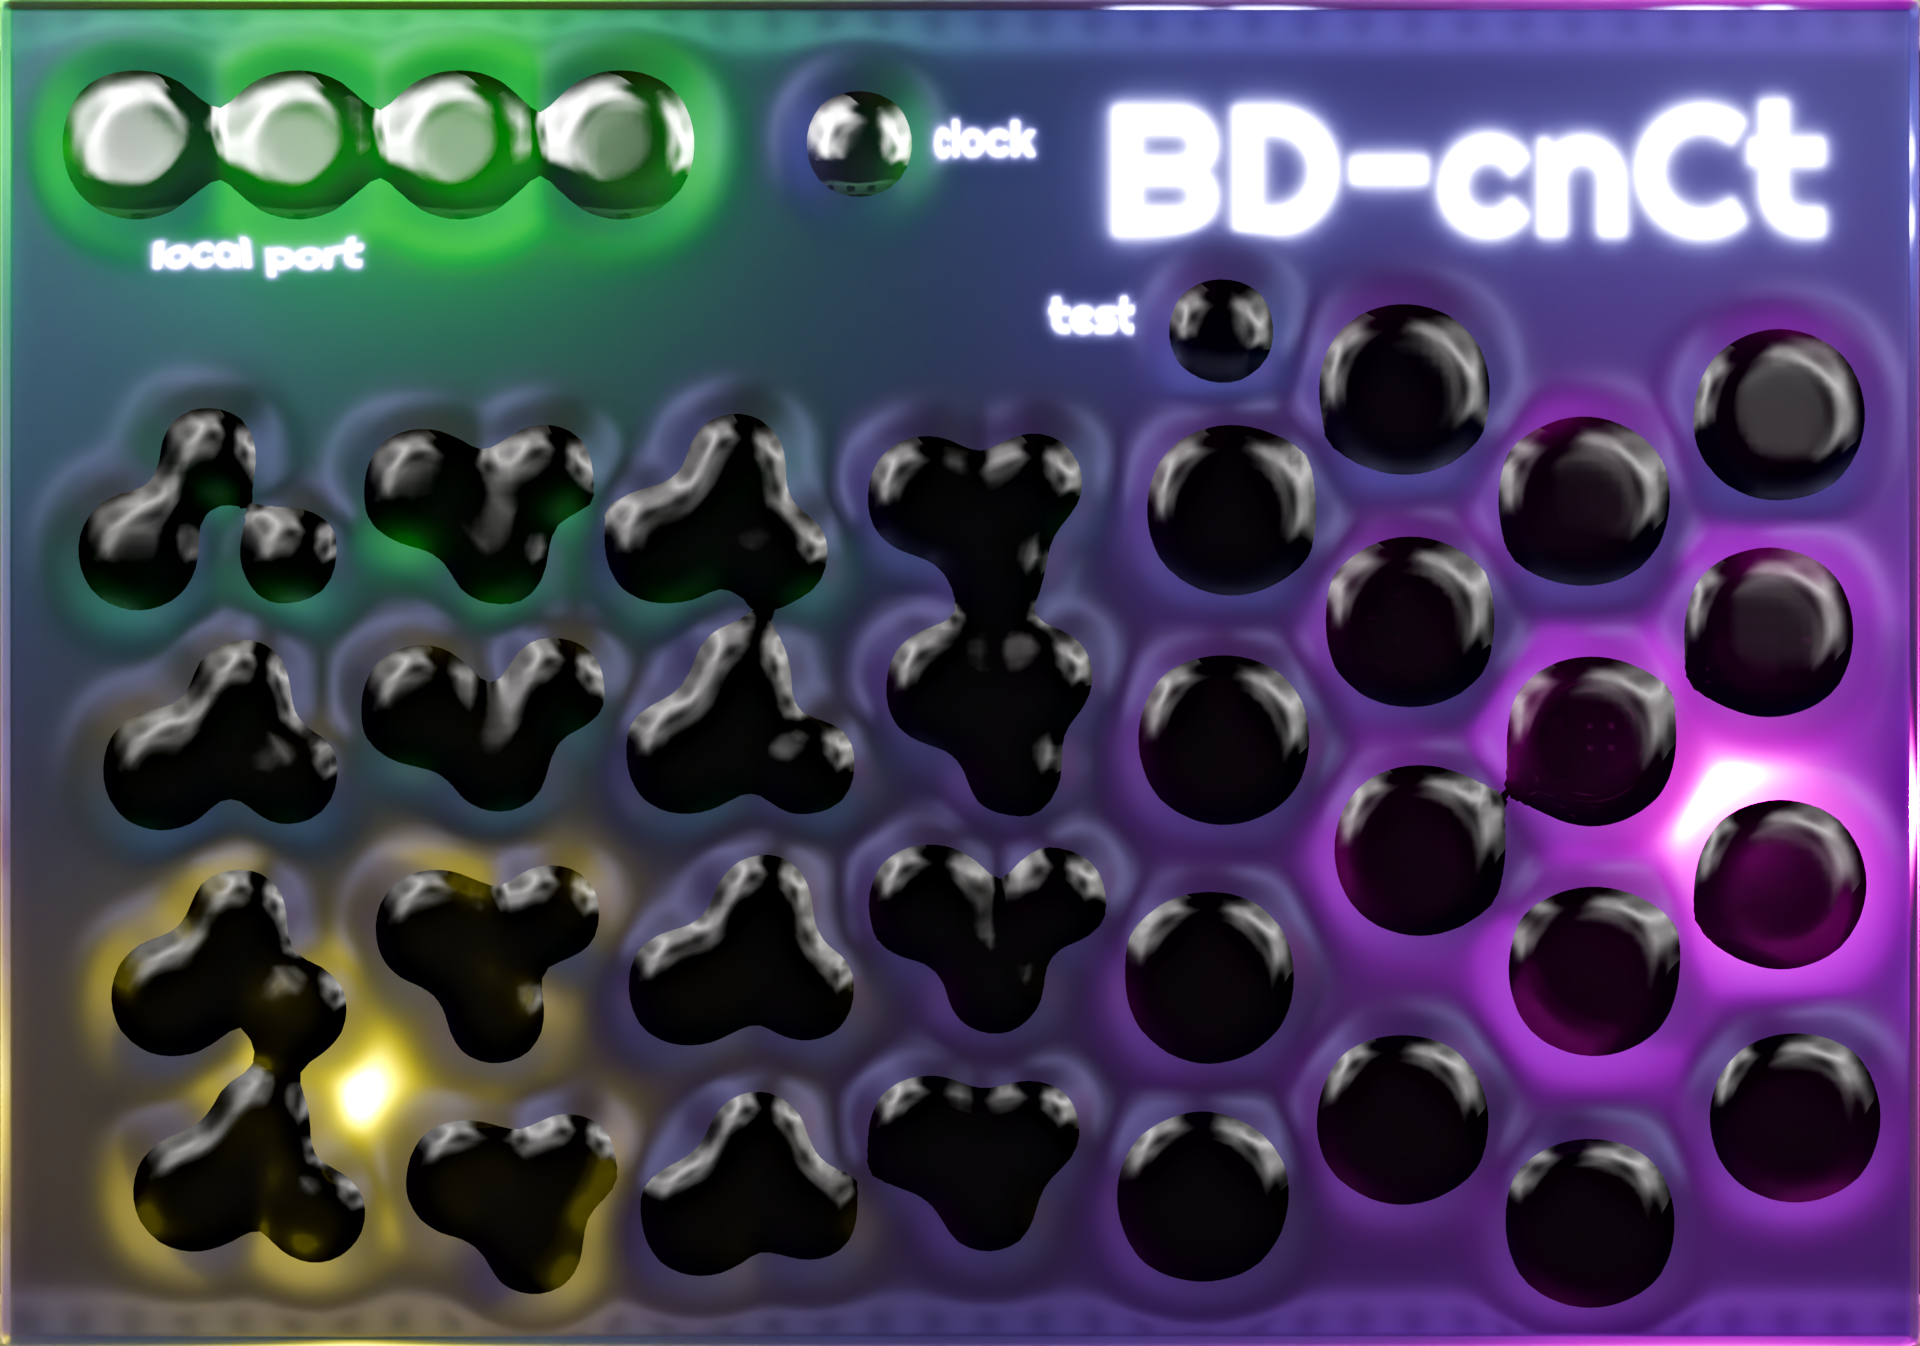
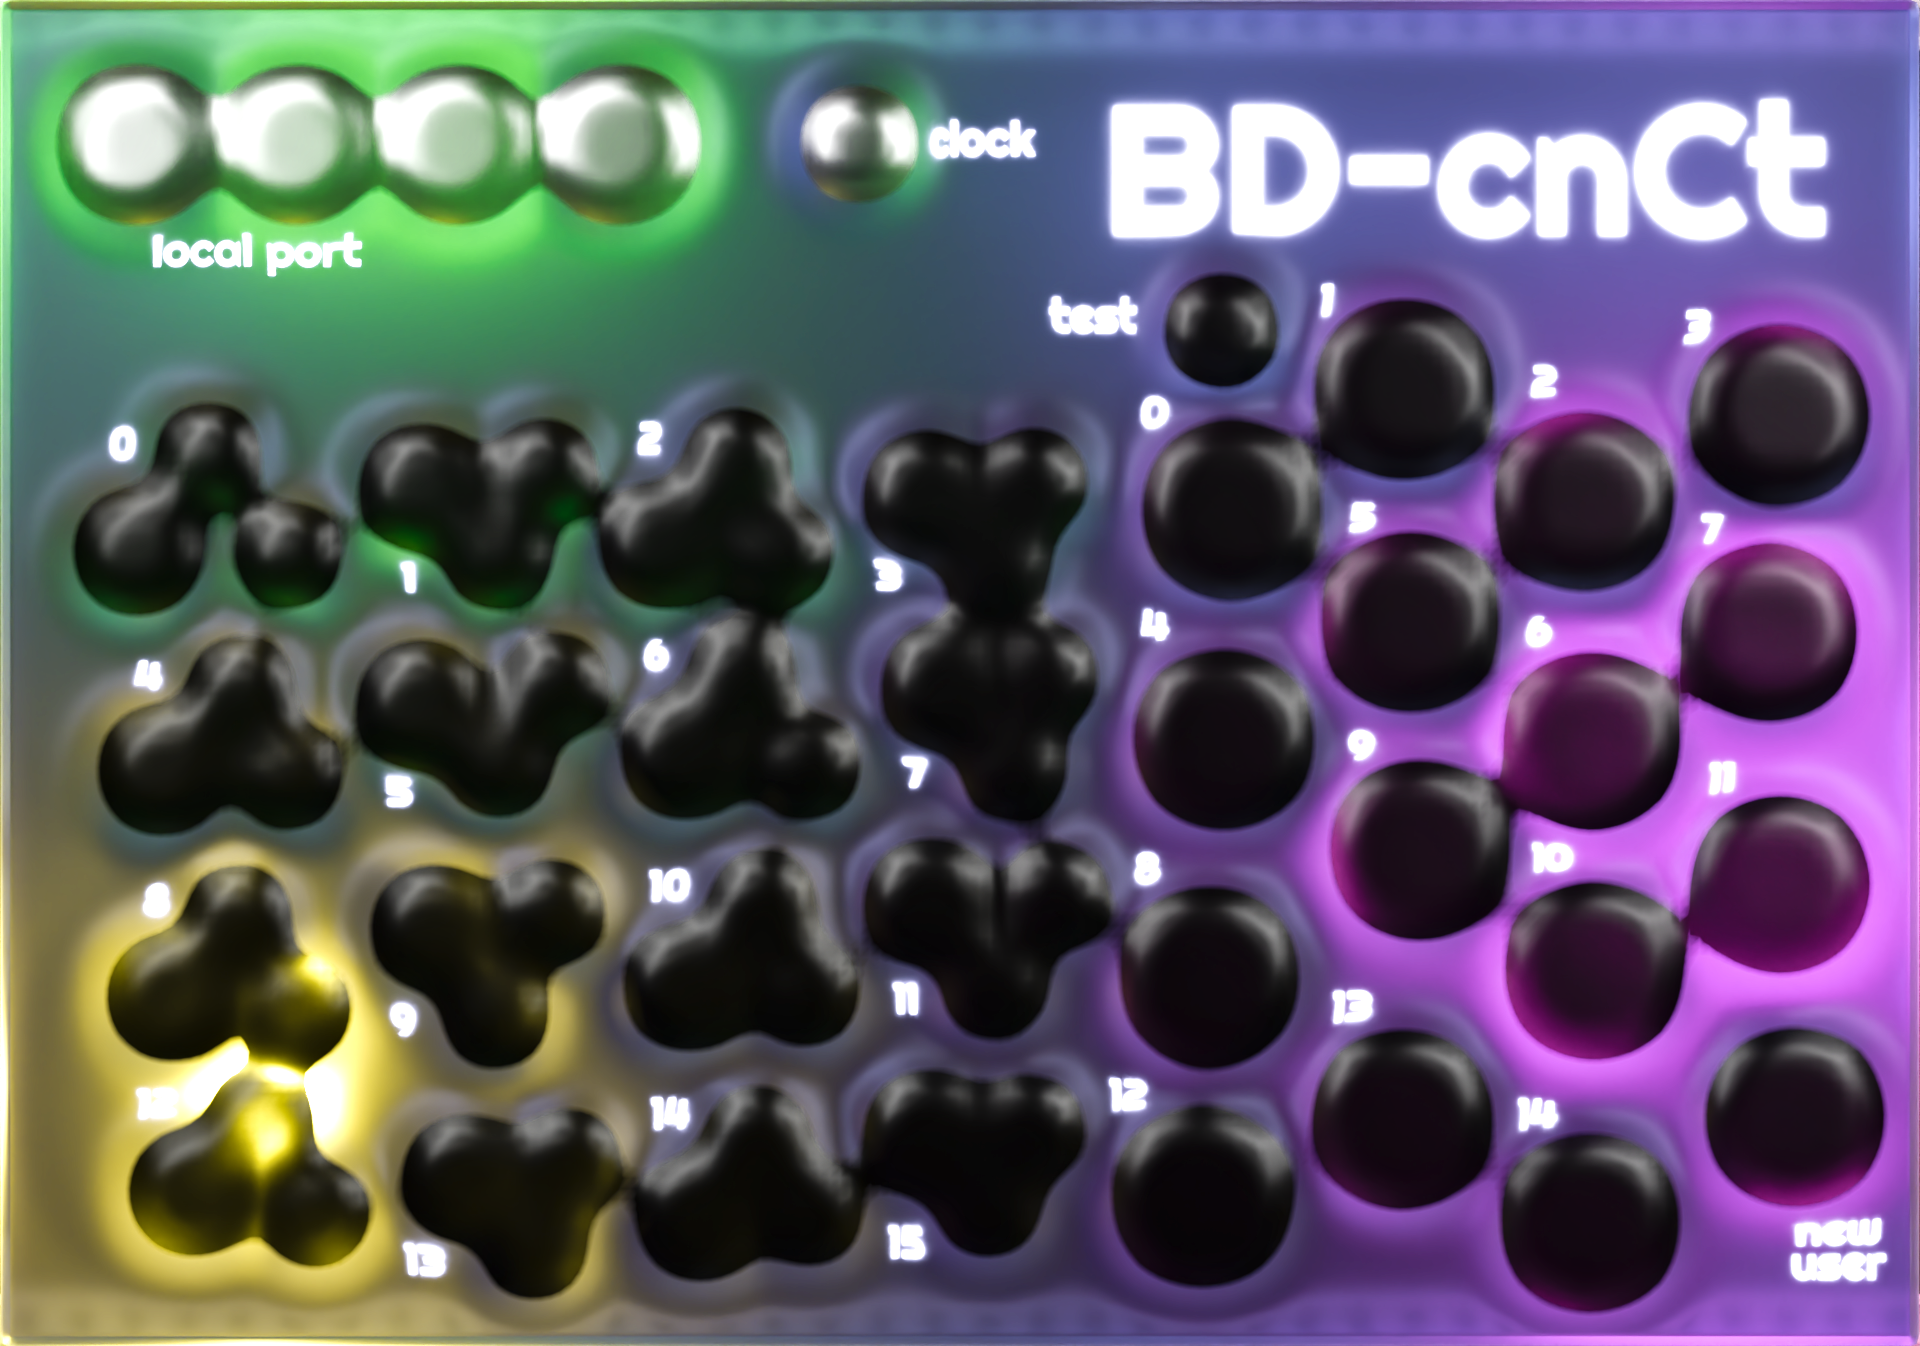
configuring params to affect the outputs

diff --git a/VCV_Module/src/BD_cnCt.cpp b/VCV_Module/src/BD_cnCt.cpp
@@ -26,23 +26,6 @@ char *strip_quotes(const char *str) {
 
 struct BD_cnCt : Module {
 	enum ParamId {
-		// Test Knobs
-		TEST_KNOB_ZERO_PARAM,
-		TEST_KNOB_ONE_PARAM,
-		TEST_KNOB_TWO_PARAM,
-		TEST_KNOB_THREE_PARAM,
-		TEST_KNOB_FOUR_PARAM,
-		TEST_KNOB_FIVE_PARAM,
-		TEST_KNOB_SIX_PARAM,
-		TEST_KNOB_SEVEN_PARAM,
-		TEST_KNOB_EIGHT_PARAM,
-		TEST_KNOB_NINE_PARAM,
-		TEST_KNOB_TEN_PARAM,
-		TEST_KNOB_ELEVEN_PARAM,
-		TEST_KNOB_TWELVE_PARAM,
-		TEST_KNOB_THIRTEEN_PARAM,
-		TEST_KNOB_FOURTEEN_PARAM,
-		TEST_KNOB_FIFTEEN_PARAM,
 		// Offset Knobs
 		OFFSET_KNOB_ZERO_PARAM,
 		OFFSET_KNOB_ONE_PARAM,
@@ -77,9 +60,26 @@ struct BD_cnCt : Module {
 		MULT_KNOB_THIRTEEN_PARAM,
 		MULT_KNOB_FOURTEEN_PARAM,
 		MULT_KNOB_FIFTEEN_PARAM,
+		// Test Knobs
+		TEST_KNOB_ZERO_PARAM,
+		TEST_KNOB_ONE_PARAM,
+		TEST_KNOB_TWO_PARAM,
+		TEST_KNOB_THREE_PARAM,
+		TEST_KNOB_FOUR_PARAM,
+		TEST_KNOB_FIVE_PARAM,
+		TEST_KNOB_SIX_PARAM,
+		TEST_KNOB_SEVEN_PARAM,
+		TEST_KNOB_EIGHT_PARAM,
+		TEST_KNOB_NINE_PARAM,
+		TEST_KNOB_TEN_PARAM,
+		TEST_KNOB_ELEVEN_PARAM,
+		TEST_KNOB_TWELVE_PARAM,
+		TEST_KNOB_THIRTEEN_PARAM,
+		TEST_KNOB_FOURTEEN_PARAM,
+		TEST_KNOB_FIFTEEN_PARAM,
 		// Local Port Knobs
-		PORT_KNOB_ONE_PARAM,
 		PORT_KNOB_ZERO_PARAM,
+		PORT_KNOB_ONE_PARAM,
 		PORT_KNOB_TWO_PARAM,
 		PORT_KNOB_THREE_PARAM,
 		// etc
@@ -87,7 +87,7 @@ struct BD_cnCt : Module {
 		PARAMS_LEN
 	};
 	enum InputId {
-		CLOCK_INPUT_INPUT,
+		CLOCK_INPUT,
 		INPUTS_LEN
 	};
 	enum OutputId {
@@ -107,6 +107,7 @@ struct BD_cnCt : Module {
 		THIRTEEN_OUTPUT,
 		FOURTEEN_OUTPUT,
 		FIFTEEN_OUTPUT,
+		NEW_USER_OUTPUT,
 		OUTPUTS_LEN
 	};
 	enum LightId {
@@ -114,31 +115,34 @@ struct BD_cnCt : Module {
 		LIGHTS_LEN
 	};
 
+	std::vector<float> user_vals = std::vector<float>(16, 0.f);
+	float clock_prev = 0.f;
+
 	BD_cnCt() {
 		config(PARAMS_LEN, INPUTS_LEN, OUTPUTS_LEN, LIGHTS_LEN);
-		configParam(TEST_ENABLE_BUTTON_PARAM, 0.f, 1.f, 0.f, "");
+		configSwitch(TEST_ENABLE_BUTTON_PARAM, 0.f, 1.f, 1.f, "");
 
 		configParam(PORT_KNOB_ZERO_PARAM,  1.f, 9.f, 5.f, "");
 		configParam(PORT_KNOB_ONE_PARAM,   0.f, 9.f, 3.f, "");
 		configParam(PORT_KNOB_TWO_PARAM,   0.f, 9.f, 0.f, "");
 		configParam(PORT_KNOB_THREE_PARAM, 0.f, 9.f, 9.f, "");
 
-		configParam(TEST_KNOB_ONE_PARAM,      0.f, 10.f, 0.f, "Test 0" );
-		configParam(TEST_KNOB_THREE_PARAM,    0.f, 10.f, 0.f, "Test 1" );
+		configParam(TEST_KNOB_ZERO_PARAM,     0.f, 10.f, 0.f, "Test 0" );
+		configParam(TEST_KNOB_ONE_PARAM,      0.f, 10.f, 0.f, "Test 1" );
 		configParam(TEST_KNOB_TWO_PARAM,      0.f, 10.f, 0.f, "Test 2" );
-		configParam(TEST_KNOB_ZERO_PARAM,     0.f, 10.f, 0.f, "Test 3" );
-		configParam(TEST_KNOB_FIVE_PARAM,     0.f, 10.f, 0.f, "Test 4" );
-		configParam(TEST_KNOB_SEVEN_PARAM,    0.f, 10.f, 0.f, "Test 5" );
-		configParam(TEST_KNOB_FOUR_PARAM,     0.f, 10.f, 0.f, "Test 6" );
-		configParam(TEST_KNOB_SIX_PARAM,      0.f, 10.f, 0.f, "Test 7" );
-		configParam(TEST_KNOB_NINE_PARAM,     0.f, 10.f, 0.f, "Test 8" );
-		configParam(TEST_KNOB_ELEVEN_PARAM,   0.f, 10.f, 0.f, "Test 9" );
+		configParam(TEST_KNOB_THREE_PARAM,    0.f, 10.f, 0.f, "Test 3" );
+		configParam(TEST_KNOB_FOUR_PARAM,     0.f, 10.f, 0.f, "Test 4" );
+		configParam(TEST_KNOB_FIVE_PARAM,     0.f, 10.f, 0.f, "Test 5" );
+		configParam(TEST_KNOB_SIX_PARAM,      0.f, 10.f, 0.f, "Test 6" );
+		configParam(TEST_KNOB_SEVEN_PARAM,    0.f, 10.f, 0.f, "Test 7" );
+		configParam(TEST_KNOB_EIGHT_PARAM,    0.f, 10.f, 0.f, "Test 8" );
+		configParam(TEST_KNOB_NINE_PARAM,     0.f, 10.f, 0.f, "Test 9" );
 		configParam(TEST_KNOB_TEN_PARAM,      0.f, 10.f, 0.f, "Test 10");
-		configParam(TEST_KNOB_EIGHT_PARAM,    0.f, 10.f, 0.f, "Test 11");
-		configParam(TEST_KNOB_THIRTEEN_PARAM, 0.f, 10.f, 0.f, "Test 12");
-		configParam(TEST_KNOB_FIFTEEN_PARAM,  0.f, 10.f, 0.f, "Test 13");
+		configParam(TEST_KNOB_ELEVEN_PARAM,   0.f, 10.f, 0.f, "Test 11");
+		configParam(TEST_KNOB_TWELVE_PARAM,   0.f, 10.f, 0.f, "Test 12");
+		configParam(TEST_KNOB_THIRTEEN_PARAM, 0.f, 10.f, 0.f, "Test 13");
 		configParam(TEST_KNOB_FOURTEEN_PARAM, 0.f, 10.f, 0.f, "Test 14");
-		configParam(TEST_KNOB_TWELVE_PARAM,   0.f, 10.f, 0.f, "Test 15");
+		configParam(TEST_KNOB_FIFTEEN_PARAM,  0.f, 10.f, 0.f, "Test 15");
 
 		configParam(OFFSET_KNOB_ZERO_PARAM,     -10.f, 10.f, 0.f, "Offset 0" );
 		configParam(OFFSET_KNOB_ONE_PARAM,      -10.f, 10.f, 0.f, "Offset 1" );
@@ -191,30 +195,72 @@ struct BD_cnCt : Module {
 		configOutput(FOURTEEN_OUTPUT, "Output 14");
 		configOutput(FIFTEEN_OUTPUT,  "Output 15");
 
-		configInput(CLOCK_INPUT_INPUT, "");
+		configInput(CLOCK_INPUT, "");
 	}
 
 	void process(const ProcessArgs& args) override {
-		if (args.frame % int(args.sampleRate) == 0) {
+		
+		bool test_enabled = params[TEST_ENABLE_BUTTON_PARAM].getValue() > 0.f;
+
+		if (
+			!test_enabled &&
+			((inputs[CLOCK_INPUT].isConnected() && inputs[CLOCK_INPUT].getVoltage() > 0.1 && clock_prev < 0.1) || 
+			 (!inputs[CLOCK_INPUT].isConnected() && args.frame % int64_t(args.sampleRate) == 0))
+		) {
 			json_t* reqJ = json_object();
 			// json_object_set_new(reqJ, "edition", json_string(APP_EDITION.c_str()));
-			json_t* resJ = network::requestJson(network::METHOD_GET, "0.0.0.0:4554/chat-queue", reqJ);
+			std::string port  = std::to_string(
+				int(params[PORT_KNOB_ZERO_PARAM].getValue() * 1000) +
+				int(params[PORT_KNOB_ONE_PARAM].getValue() * 100)   +
+				int(params[PORT_KNOB_TWO_PARAM].getValue() * 10)    +
+				int(params[PORT_KNOB_THREE_PARAM].getValue())
+			);
+			DEBUG("PORT: %s", port.c_str());
+			json_t* resJ = network::requestJson(network::METHOD_GET, "0.0.0.0:"+port+"/chat-queue", reqJ);
 			const char *key;
 			json_t *value;
 			DEBUG("PRINTING ALL JSON FIELDS BELOW");
 			json_object_foreach(resJ, key, value) {
- 				/* block of code that uses key and value */
+				/* block of code that uses key and value */
 				const char* val = json_dumps(value, JSON_ENCODE_ANY);
 				DEBUG("%d", atoi(key));
 
 				char *value = strip_quotes(val);
 				DEBUG("value %s turns into %f", value, atof(value));
-				outputs[atoi(key)].setVoltage(atof(value));
+				
+				user_vals[atoi(key)] = atof(value);
+				// outputs[atoi(key)].setVoltage(atof(value));
+				
 				free(value);
 			}
 			json_decref(reqJ);
 			json_decref(resJ);
 		}
+		else {
+			// set the user values as the values of the test knobs
+			for (size_t i = 0; i < user_vals.size(); i++)
+			{
+				user_vals[i] = params[(16*2) + i].getValue();
+			}
+		}
+
+		// apply offset and mult to each input before outputting value
+		for (size_t i = 0; i < user_vals.size(); i++)
+		{
+			outputs[i].setVoltage( 
+				clamp( (user_vals[i] + params[i].getValue()) * params[i+16].getValue(), -10.0, 10.0 )
+			);
+		}
+		if (args.frame % 200000 == 0) {
+			DEBUG("USER_VALS, test mode:%f", params[TEST_ENABLE_BUTTON_PARAM].getValue());
+			for (size_t i = 0; i < user_vals.size(); i++)
+			{
+				DEBUG("%f", user_vals[i]);
+			} 
+		}
+		
+
+		clock_prev =  inputs[CLOCK_INPUT].getVoltage();
 	}
 };
 
@@ -257,7 +303,6 @@ struct BD_cnCtWidget : ModuleWidget {
 		addParam(createParamCentered<RoundBlackKnob>(mm2px(Vec(114.808, 114.321)), module, BD_cnCt::TEST_KNOB_TWELVE_PARAM));
 		addParam(createParamCentered<RoundBlackKnob>(mm2px(Vec(133.81, 106.809)),  module, BD_cnCt::TEST_KNOB_THIRTEEN_PARAM));
 		addParam(createParamCentered<RoundBlackKnob>(mm2px(Vec(151.828, 116.827)), module, BD_cnCt::TEST_KNOB_FOURTEEN_PARAM));
-		addParam(createParamCentered<RoundBlackKnob>(mm2px(Vec(171.411, 106.658)), module, BD_cnCt::TEST_KNOB_FIFTEEN_PARAM));
 
 		addParam(createParamCentered<Trimpot>(mm2px(Vec(19.893, 43.597)),  module, BD_cnCt::OFFSET_KNOB_ZERO_PARAM));
 		addParam(createParamCentered<Trimpot>(mm2px(Vec(51.966, 45.073)),  module, BD_cnCt::OFFSET_KNOB_ONE_PARAM));
@@ -275,6 +320,7 @@ struct BD_cnCtWidget : ModuleWidget {
 		addParam(createParamCentered<Trimpot>(mm2px(Vec(54.208, 111.029)), module, BD_cnCt::OFFSET_KNOB_THIRTEEN_PARAM));
 		addParam(createParamCentered<Trimpot>(mm2px(Vec(72.333, 108.939)), module, BD_cnCt::OFFSET_KNOB_FOURTEEN_PARAM));
 		addParam(createParamCentered<Trimpot>(mm2px(Vec(98.52, 107.819)),  module, BD_cnCt::OFFSET_KNOB_FIFTEEN_PARAM));
+		
 
 		addParam(createParamCentered<Trimpot>(mm2px(Vec(27.505, 52.949)),  module, BD_cnCt::MULT_KNOB_ZERO_PARAM));
 		addParam(createParamCentered<Trimpot>(mm2px(Vec(47.556, 53.128)),  module, BD_cnCt::MULT_KNOB_ONE_PARAM));
@@ -293,7 +339,7 @@ struct BD_cnCtWidget : ModuleWidget {
 		addParam(createParamCentered<Trimpot>(mm2px(Vec(77.272, 115.789)), module, BD_cnCt::MULT_KNOB_FOURTEEN_PARAM));
 		addParam(createParamCentered<Trimpot>(mm2px(Vec(94.364, 114.865)), module, BD_cnCt::MULT_KNOB_FIFTEEN_PARAM));
 
-		addInput(createInputCentered<PJ301MPort>(mm2px(Vec(81.99, 13.75)), module, BD_cnCt::CLOCK_INPUT_INPUT));
+		addInput(createInputCentered<PJ301MPort>(mm2px(Vec(81.99, 13.75)), module, BD_cnCt::CLOCK_INPUT));
 
 		addOutput(createOutputCentered<PJ301MPort>(mm2px(Vec(13.156, 52.627)),  module, BD_cnCt::ZERO_OUTPUT));
 		addOutput(createOutputCentered<PJ301MPort>(mm2px(Vec(40.37, 46.593)),   module, BD_cnCt::ONE_OUTPUT));
@@ -311,6 +357,8 @@ struct BD_cnCtWidget : ModuleWidget {
 		addOutput(createOutputCentered<PJ301MPort>(mm2px(Vec(44.476, 112.598)), module, BD_cnCt::THIRTEEN_OUTPUT));
 		addOutput(createOutputCentered<PJ301MPort>(mm2px(Vec(66.927, 116.257)), module, BD_cnCt::FOURTEEN_OUTPUT));
 		addOutput(createOutputCentered<PJ301MPort>(mm2px(Vec(88.623, 108.348)), module, BD_cnCt::FIFTEEN_OUTPUT));
+		
+		addOutput(createOutputCentered<CL1362Port>(mm2px(Vec(171.411, 106.658)), module, BD_cnCt::NEW_USER_OUTPUT));
 	}
 };
 
